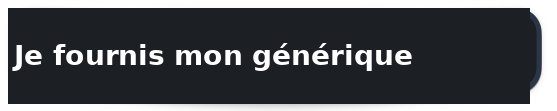
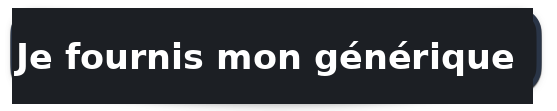
Fix police labels + pictos coupes + placeholders visibles

Changed region(s): [[0.0, 0.0811, 0.9461, 0.9459], [0.9461, 0.7297, 0.9767, 0.9459], [0.9461, 0.0811, 0.9767, 0.1622]]

diff --git a/contact-studio.html b/contact-studio.html
@@ -143,8 +143,9 @@
         }
         .toggle-btn:hover { opacity: 0.8; }
 
-        .label-img { height: 36px; width: auto; }
+        .label-img { height: 36px; width: auto; object-fit: contain; }
 
+        .small-input::placeholder { color: rgba(255,255,255,0.5); font-weight: bold; }
         .small-input {
             background: rgba(30,32,40,0.8);
             border: 1px solid rgba(60,70,90,0.3);
